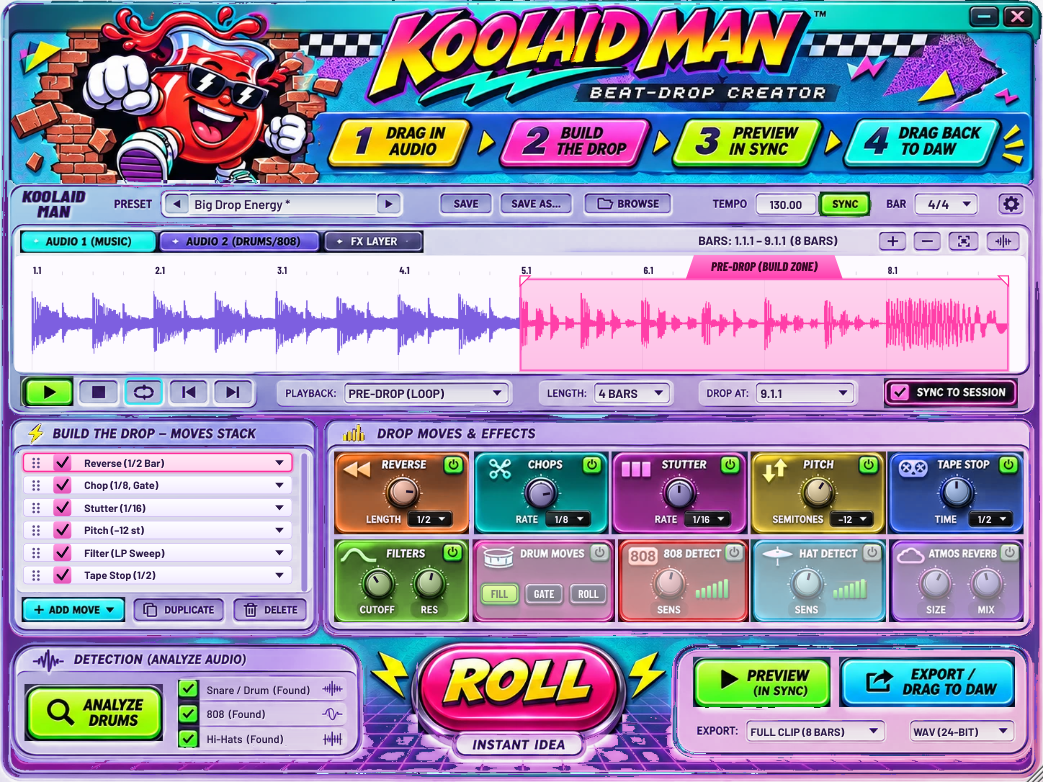
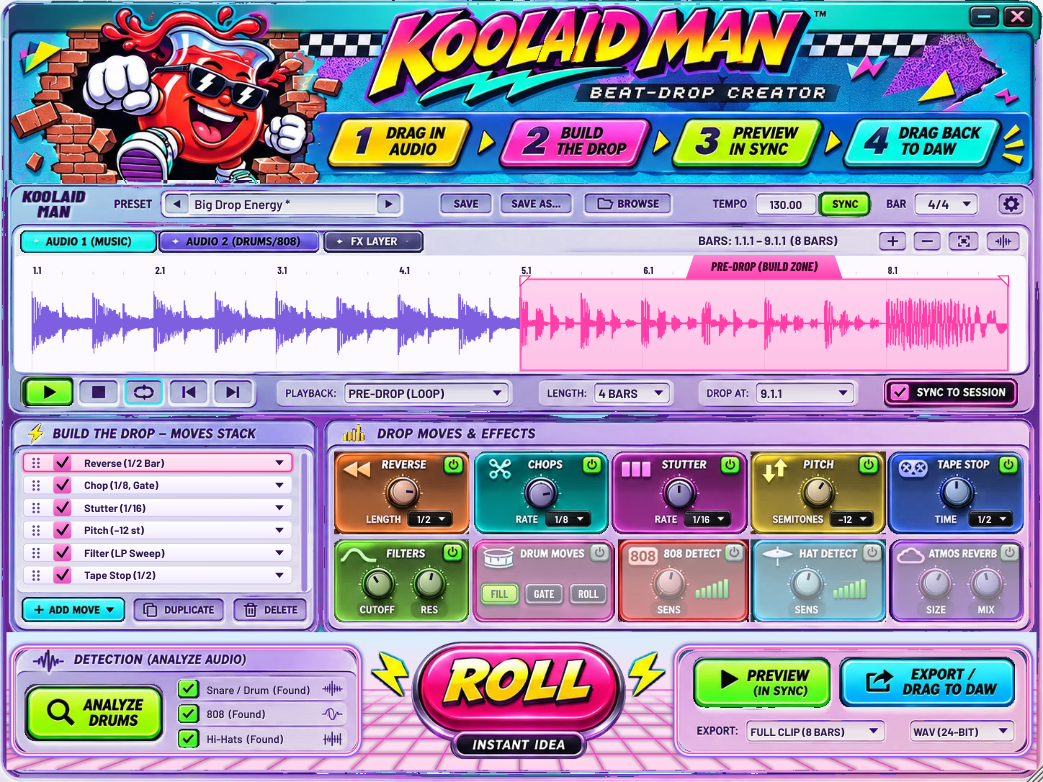
Light theme: redraw the laser-grid stage and lower panel frames cleanly
Per-pixel conversion left the neon grid and chrome frames half-converted
and showed rectangular cut-outs around ROLL and the buttons. The light skin
now redraws the bottom stage (pastel sky, perspective neon grid, crisp
pink/violet frames on the Detection and Preview/Export panels), keeps ROLL,
its plate and the bolts from the original along their real shapes, and
protects buttons with rounded masks so no dark corners remain.

Claude-Session: https://claude.ai/code/session_01QgEDcgLkM3AKxt5m2H6UjC

diff --git a/tools/make_light_skin.py b/tools/make_light_skin.py
@@ -15,18 +15,23 @@ S = np.where(d < 1e-6, 0, d / (1 - np.abs(2 * L - 1) + 1e-6))
 hue = np.where(mx == r, ((g - b) / (d + 1e-6)) % 6, np.where(mx == g, (b - r) / (d + 1e-6) + 2, (r - g) / (d + 1e-6) + 4)) * 60
 hue = np.where(d < 1e-6, 0, hue)
 
-protect = np.zeros((H, W), bool)
-def P(x, y, w, h, m=0):
-    protect[max(0, y - m):y + h + m, max(0, x - m):x + w + m] = True
+from PIL import ImageDraw as _ImageDraw
+_pm = Image.new('L', (W * 4, H * 4), 0)
+_pd = _ImageDraw.Draw(_pm)
+def P(x, y, w, h, m=0, r=0):
+    # rounded so the dark corners around rounded buttons don't survive
+    _pd.rounded_rectangle([(x - m) * 4, (y - m) * 4, (x + w + m) * 4, (y + h + m) * 4], radius=max(0, r + m) * 4, fill=255)
 # header art, cards, coloured buttons, roll
 P(12, 6, 1424, 244)
 for c in [(467,630,181,109),(661,630,181,109),(852,630,183,109),(1045,630,182,109),(1235,630,183,109),
           (467,752,181,109),(659,752,192,109),(861,752,176,109),(1045,752,182,109),(1237,752,181,109)]:
-    P(*c, m=3)
-for bt in [(1140,268,66,30),(30,322,556,27),(30,524,70,38),(1229,527,182,38),(32,831,140,31),
-           (36,952,188,75),(249,946,26,90),(964,914,187,66),(1167,914,240,66),(582,890,280,128),
-           (512,900,64,90),(866,900,64,90)]:
-    P(*bt, m=2)
+    P(*c, m=3, r=14)
+for bt, rad in [((1140,268,66,30), 7), ((30,322,186,27), 6), ((222,322,219,27), 6), ((451,322,135,27), 6),
+                ((30,524,70,38), 7), ((1229,527,182,38), 9), ((32,831,140,31), 7),
+                ((36,952,188,75), 13), ((249,946,26,22), 4), ((249,980,26,22), 4), ((249,1014,26,22), 4),
+                ((964,914,187,66), 13), ((1167,914,240,66), 13)]:
+    P(*bt, m=2, r=rad)
+protect = np.asarray(_pm.resize((W, H), Image.LANCZOS)) > 127
 
 # where to transform: purples / blues / greys, but not vivid neon accents
 purpleBlue = (hue >= 200) & (hue <= 318)
@@ -60,3 +65,123 @@ out[sel] = conv[sel]
 acc = neon & purpleBlue & ~protect
 out[acc] = out[acc] * 0.85
 Image.fromarray((np.clip(out, 0, 1) * 255 + 0.5).astype(np.uint8)).save(sys.argv[2])
+
+# ---------------------------------------------------------------------------
+# Bottom stage (sky + laser-grid floor + the Detection / Export panel frames):
+# per-pixel conversion leaves neon grid lines and chrome frames half-converted,
+# so for the light theme this area is redrawn cleanly instead.
+# ---------------------------------------------------------------------------
+from PIL import ImageDraw, ImageFilter
+
+SS = 4                                   # supersampling for smooth lines
+X0, Y0, X1, Y1 = 9, 878, 1439, 1069      # the stage
+HORIZON = 958
+VX, VY = 721, 851                        # vanishing point of the grid
+
+def ss(v): return int(round(v * SS))
+
+light = Image.fromarray((np.clip(out, 0, 1) * 255 + 0.5).astype(np.uint8)).convert('RGBA')
+orig = src.convert('RGBA')
+Wd, Hd = X1 - X0, Y1 - Y0
+
+# sky + floor gradient
+stage = np.zeros((Hd, Wd, 3), np.float32)
+ys = np.arange(Y0, Y1)[:, None]
+xs = np.arange(X0, X1)[None, :]
+skyTop, skyBot = np.array([214, 241, 255]), np.array([255, 222, 242])
+floorTop, floorBot = np.array([252, 240, 255]), np.array([255, 214, 238])
+t = np.clip((ys - Y0) / (HORIZON - Y0), 0, 1)[..., None]
+sky = skyTop * (1 - t) + skyBot * t
+t2 = np.clip((ys - HORIZON) / (Y1 - HORIZON), 0, 1)[..., None]
+floor = floorTop * (1 - t2) + floorBot * t2
+stage[:] = np.where((ys < HORIZON)[..., None], sky, floor) * np.ones((1, Wd, 1))
+# a gentle left-right blue -> pink drift like the rest of the light theme
+drift = np.clip((xs - X0) / Wd, 0, 1)[..., None]
+stage = stage * (1 - 0.12 * drift) + np.array([255, 205, 235]) * 0.12 * drift
+stageImg = Image.fromarray(np.clip(stage, 0, 255).astype(np.uint8)).convert('RGBA')
+
+# neon grid (drawn big, blurred glow + crisp core, then downsampled)
+grid = Image.new('RGBA', (Wd * SS, Hd * SS), (0, 0, 0, 0))
+gd = ImageDraw.Draw(grid)
+def gline(x0, y0, x1, y1, col, w):
+    gd.line([(ss(x0 - X0), ss(y0 - Y0)), (ss(x1 - X0), ss(y1 - Y0))], fill=col, width=ss(w))
+lines = []
+for k in range(0, 9):
+    y = HORIZON + 7 * k + 1.3 * k * k
+    if y < Y1: lines.append(('h', y))
+for k in range(-16, 17):
+    xb = VX + k * 56                     # x where the line meets y = 1060
+    lines.append(('v', xb))
+def draw_lines(col, w):
+    for kind, v in lines:
+        if kind == 'h':
+            gline(X0, v, X1, v, col, w)
+        else:
+            # from the horizon down to the bottom, on the line through the vanishing point
+            xh = VX + (v - VX) * (HORIZON - VY) / (1060 - VY)
+            xe = VX + (v - VX) * (Y1 - VY) / (1060 - VY)
+            gline(xh, HORIZON, xe, Y1, col, w)
+glow = Image.new('RGBA', grid.size, (0, 0, 0, 0)); gd = ImageDraw.Draw(glow)
+draw_lines((255, 80, 200, 150), 4.0)
+glow = glow.filter(ImageFilter.GaussianBlur(ss(2.2)))
+gd = ImageDraw.Draw(grid)
+draw_lines((236, 64, 196, 235), 1.6)
+gd.line([(0, ss(HORIZON - Y0)), (ss(Wd), ss(HORIZON - Y0))], fill=(255, 120, 215, 255), width=ss(2.2))
+gridImg = Image.alpha_composite(glow, grid).resize((Wd, Hd), Image.LANCZOS)
+# fade the grid out towards the horizon so it reads as depth
+fade = np.clip((np.arange(Hd)[:, None] + Y0 - HORIZON) / 26.0, 0, 1)
+ga = np.asarray(gridImg).astype(np.float32)
+ga[..., 3] *= np.maximum(fade, (np.abs(np.arange(Hd)[:, None] + Y0 - HORIZON) < 2) * 1.0)
+gridImg = Image.fromarray(ga.astype(np.uint8))
+stageImg = Image.alpha_composite(stageImg, gridImg)
+
+# where the stage shows: everything in the stage except the two panels, ROLL, plate and bolts
+mask = Image.new('L', (Wd * SS, Hd * SS), 255)
+md = ImageDraw.Draw(mask)
+PANELS = [(13, 894, 503, 1052, 24), (934, 894, 1434, 1052, 24)]
+for (a, b, c, d, r) in PANELS:
+    md.rounded_rectangle([ss(a - X0), ss(b - Y0), ss(c - X0), ss(d - Y0)], radius=ss(r), fill=0)
+md.rounded_rectangle([ss(571 - X0), ss(891 - Y0), ss(869 - X0), ss(1031 - Y0)], radius=ss(70), fill=0)   # ROLL ring
+md.rounded_rectangle([ss(625 - X0), ss(1015 - Y0), ss(815 - X0), ss(1054 - Y0)], radius=ss(19), fill=0)  # INSTANT IDEA
+mask = mask.resize((Wd, Hd), Image.LANCZOS)
+# bolts: yellow pixels of the original plus their dark outline
+o = np.asarray(orig.crop((X0, Y0, X1, Y1)).convert('RGB')).astype(np.float32) / 255
+mxo, mno = o.max(-1), o.min(-1)
+yellow = (o[..., 0] > 0.75) & (o[..., 1] > 0.6) & (o[..., 2] < 0.45)
+boltZone = np.zeros_like(yellow)
+for (a, b, c, d) in [(505, 898, 575, 978), (862, 898, 932, 978)]:
+    boltZone[b - Y0:d - Y0, a - X0:c - X0] = True
+bolt = Image.fromarray(((yellow & boltZone) * 255).astype(np.uint8)).filter(ImageFilter.MaxFilter(7)).filter(ImageFilter.GaussianBlur(0.8))
+mask = Image.fromarray(np.minimum(np.asarray(mask), 255 - np.asarray(bolt)).astype(np.uint8))
+
+region = light.crop((X0, Y0, X1, Y1))
+# ROLL, its plate and the bolts come straight from the original artwork
+keep = Image.fromarray((255 - np.asarray(mask)).astype(np.uint8))
+panelsOnly = Image.new('L', (Wd * SS, Hd * SS), 0)
+pd = ImageDraw.Draw(panelsOnly)
+for (a, b, c, d, r) in PANELS:
+    pd.rounded_rectangle([ss(a - X0), ss(b - Y0), ss(c - X0), ss(d - Y0)], radius=ss(r), fill=255)
+panelsOnly = panelsOnly.resize((Wd, Hd), Image.LANCZOS)
+artKeep = Image.fromarray(np.clip(np.asarray(keep).astype(np.int32) - np.asarray(panelsOnly).astype(np.int32), 0, 255).astype(np.uint8))
+region = Image.composite(orig.crop((X0, Y0, X1, Y1)), region, artKeep)
+region = Image.composite(stageImg, region, mask)
+
+# clean neon frames for the two panels
+frame = Image.new('RGBA', (Wd * SS, Hd * SS), (0, 0, 0, 0))
+fglow = Image.new('RGBA', frame.size, (0, 0, 0, 0))
+fd, fg = ImageDraw.Draw(frame), ImageDraw.Draw(fglow)
+for (a, b, c, d, r) in PANELS:
+    box = [ss(a - X0), ss(b - Y0), ss(c - X0), ss(d - Y0)]
+    fg.rounded_rectangle(box, radius=ss(r), outline=(255, 90, 200, 170), width=ss(6))
+    fd.rounded_rectangle(box, radius=ss(r), outline=(246, 240, 255, 255), width=ss(8))          # covers the old frame
+    fd.rounded_rectangle(box, radius=ss(r), outline=(150, 98, 255, 255), width=ss(2.6))         # violet outer line
+    inner = [box[0] + ss(5), box[1] + ss(5), box[2] - ss(5), box[3] - ss(5)]
+    fd.rounded_rectangle(inner, radius=ss(r - 5), outline=(255, 79, 180, 255), width=ss(2.0))   # hot-pink inner line
+    hl = [box[0] + ss(2.6), box[1] + ss(2.6), box[2] - ss(2.6), box[3] - ss(2.6)]
+    fd.rounded_rectangle(hl, radius=ss(r - 2.6), outline=(255, 255, 255, 230), width=ss(1.2))   # chrome highlight
+fglow = fglow.filter(ImageFilter.GaussianBlur(ss(2.5)))
+frames = Image.alpha_composite(fglow, frame).resize((Wd, Hd), Image.LANCZOS)
+region = Image.alpha_composite(region.convert('RGBA'), frames)
+
+light.paste(region, (X0, Y0))
+light.convert('RGB').save(sys.argv[2])
